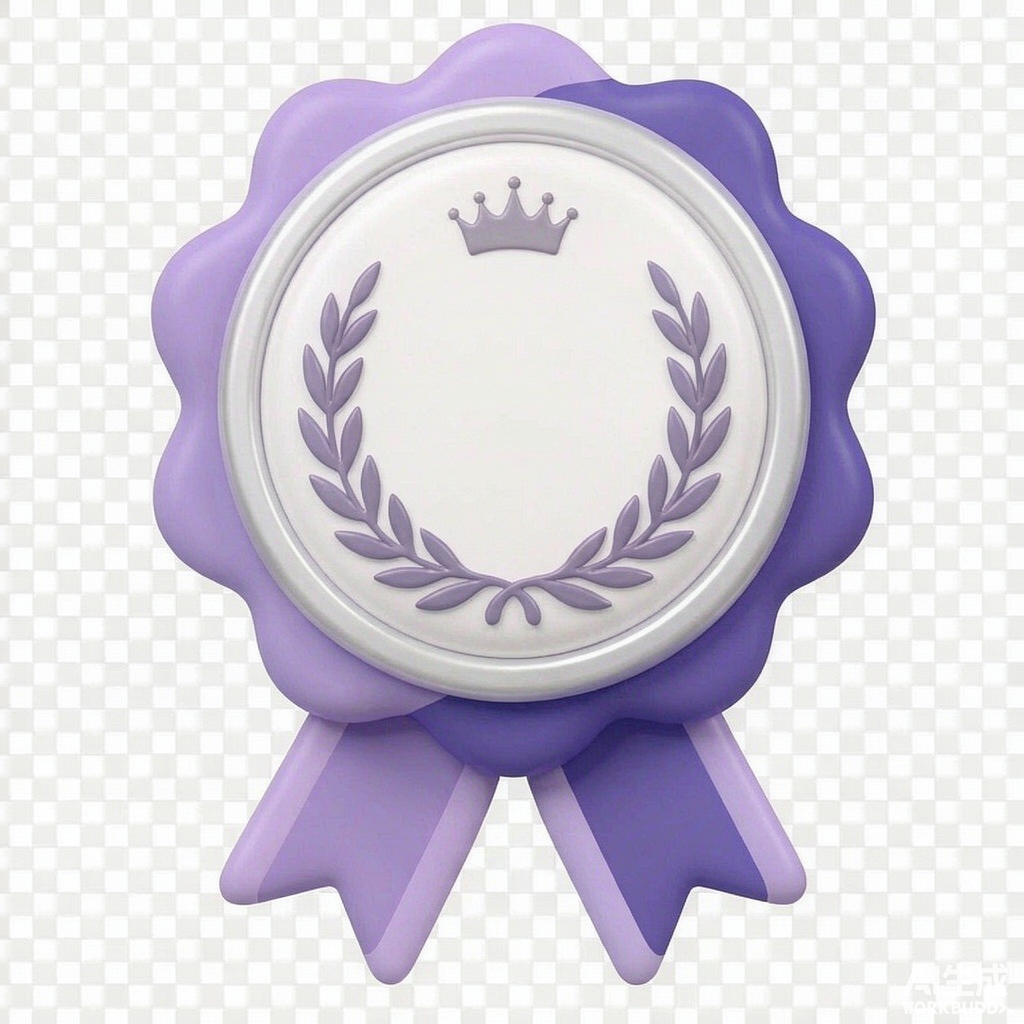
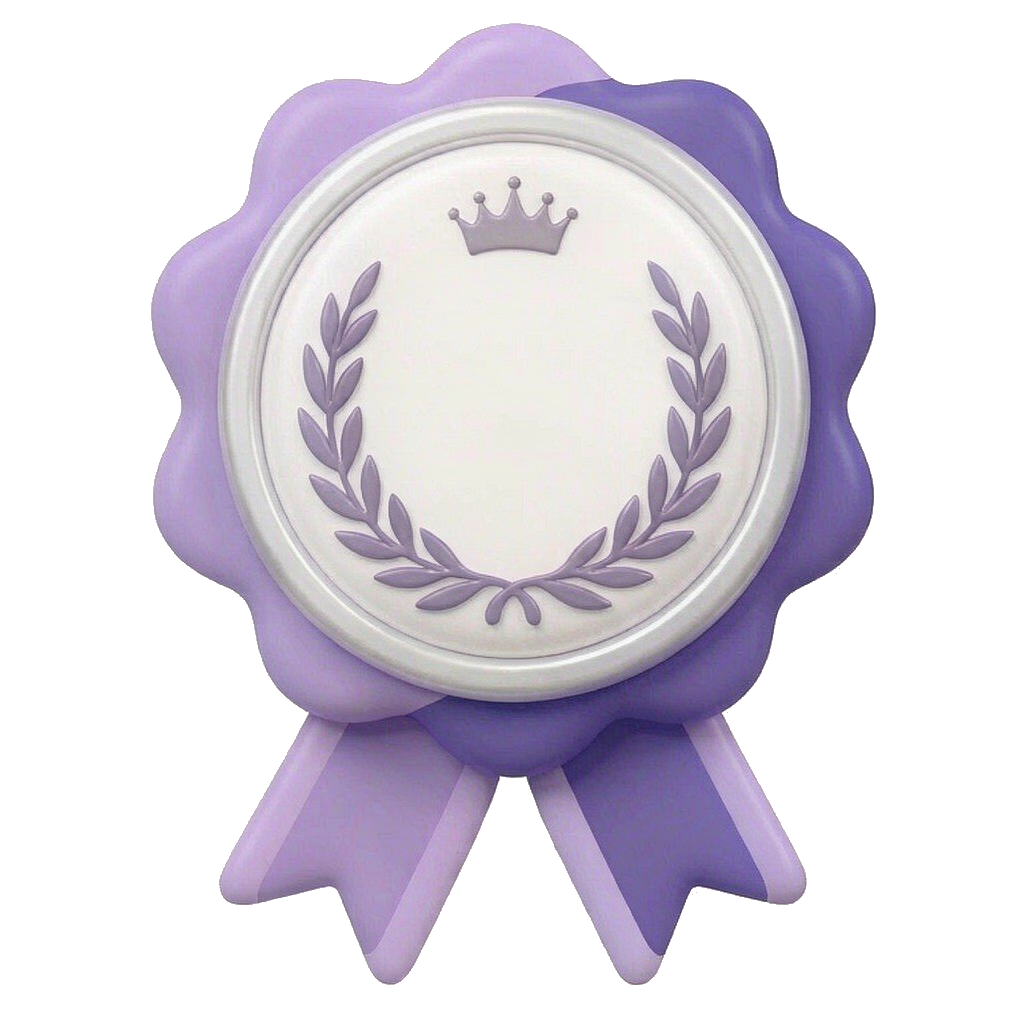
UI: 勋章徽章去除棋盘格底纹并缩小中心数字

diff --git a/src/pages/HomePage.tsx b/src/pages/HomePage.tsx
@@ -279,7 +279,7 @@ function RoundsBadge({ rounds }: { rounds: number }) {
         className="h-7 w-auto object-contain"
         aria-hidden
       />
-      <span className="pointer-events-none absolute left-0 right-0 top-[36%] flex -translate-y-1/2 justify-center text-[11px] font-bold text-primary">
+      <span className="pointer-events-none absolute left-0 right-0 top-[36%] flex -translate-y-1/2 justify-center text-[9px] font-bold text-primary">
         {label}
       </span>
     </span>
